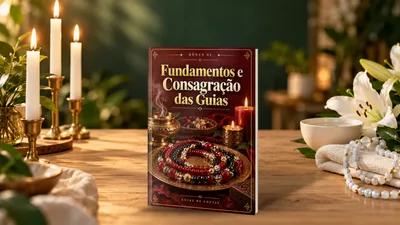
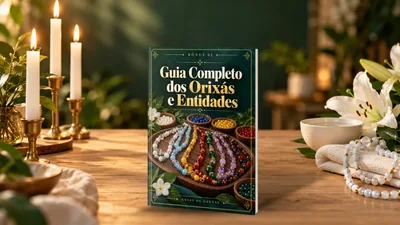
Bonus 02 vira Guia Completo dos Orixas e Entidades (Fundamentos foi para order bump)

Changed region(s): [[0.36, 0.1867, 0.66, 0.9644]]

diff --git a/index.html b/index.html
@@ -573,23 +573,23 @@
     <div class="orn"><i></i><b></b><i></i></div>
     <h2>Você também recebe 4 bônus para ir além da montagem!</h2>
 
-    <!-- capas: ebook do Heitor como livro 3D sobre cena gerada no ChatGPT (_geracao/bonus-fundos/: f1..f4 = fundos, compor.html = montagem; versões anteriores em assets/bonus/antigas/).  Os 4 bônus ainda precisam
-         existir na entrega (fila do entregador). -->
+    <!-- capas: ebook do Heitor como livro 3D sobre cena gerada no ChatGPT (_geracao/bonus-fundos/: f1..f4 = fundos, compor.html = montagem; versões anteriores em assets/bonus/antigas/).  (28/10: b2 trocado de Fundamentos e Consagração, que virou order bump, para Guia Completo dos Orixás e Entidades)
+         Conteúdo dos 4 bônus: entregaveis/60-guias-de-contas/bonus/. -->
     <div class="bonus-lista">
       <div class="card-bonus">
-        <div class="capa-bonus"><img src="assets/bonus/b1.webp?v=3" srcset="assets/bonus/b1-400.webp?v=3 400w, assets/bonus/b1.webp?v=3 680w" sizes="(max-width:720px) 92vw, 530px" width="680" height="383" loading="lazy" alt="Capa do Bônus 01, Guia Completo de Materiais e Componentes"></div>
+        <div class="capa-bonus"><img src="assets/bonus/b1.webp?v=4" srcset="assets/bonus/b1-400.webp?v=4 400w, assets/bonus/b1.webp?v=4 680w" sizes="(max-width:720px) 92vw, 530px" width="680" height="383" loading="lazy" alt="Capa do Bônus 01, Guia Completo de Materiais e Componentes"></div>
         <div class="txt-bonus"><span class="num-b"><svg class="ico"><use href="#i-presente"/></svg>BÔNUS 01</span><b>Guia Completo de Materiais e Componentes</b><span>Descubra quais contas, pedras, fios e acessórios utilizar, com orientações de escolha e uma lista de compras para começar.</span></div>
       </div>
       <div class="card-bonus">
-        <div class="capa-bonus"><img src="assets/bonus/b2.webp?v=3" srcset="assets/bonus/b2-400.webp?v=3 400w, assets/bonus/b2.webp?v=3 680w" sizes="(max-width:720px) 92vw, 530px" width="680" height="383" loading="lazy" alt="Capa do Bônus 02, Fundamentos e Consagração das Guias"></div>
-        <div class="txt-bonus"><span class="num-b"><svg class="ico"><use href="#i-presente"/></svg>BÔNUS 02</span><b>Fundamentos e Consagração das Guias</b><span>Entenda o significado das guias, os cuidados com seu uso e a importância da consagração conforme cada tradição religiosa.</span></div>
+        <div class="capa-bonus"><img src="assets/bonus/b2.webp?v=4" srcset="assets/bonus/b2-400.webp?v=4 400w, assets/bonus/b2.webp?v=4 680w" sizes="(max-width:720px) 92vw, 530px" width="680" height="383" loading="lazy" alt="Capa do Bônus 02, Guia Completo dos Orixás e Entidades"></div>
+        <div class="txt-bonus"><span class="num-b"><svg class="ico"><use href="#i-presente"/></svg>BÔNUS 02</span><b>Guia Completo dos Orixás e Entidades</b><span>Consulte num só lugar as cores, o dia, o elemento e a saudação de cada orixá e de cada linha, com as variações entre Umbanda e Candomblé.</span></div>
       </div>
       <div class="card-bonus">
-        <div class="capa-bonus"><img src="assets/bonus/b3.webp?v=3" srcset="assets/bonus/b3-400.webp?v=3 400w, assets/bonus/b3.webp?v=3 680w" sizes="(max-width:720px) 92vw, 530px" width="680" height="383" loading="lazy" alt="Capa do Bônus 03, Como Precificar e Vender Suas Guias"></div>
+        <div class="capa-bonus"><img src="assets/bonus/b3.webp?v=4" srcset="assets/bonus/b3-400.webp?v=4 400w, assets/bonus/b3.webp?v=4 680w" sizes="(max-width:720px) 92vw, 530px" width="680" height="383" loading="lazy" alt="Capa do Bônus 03, Como Precificar e Vender Suas Guias"></div>
         <div class="txt-bonus"><span class="num-b"><svg class="ico"><use href="#i-presente"/></svg>BÔNUS 03</span><b>Como Precificar e Vender Suas Guias</b><span>Saiba calcular os custos, definir seus preços e organizar encomendas para transformar suas confecções em uma fonte de renda.</span></div>
       </div>
       <div class="card-bonus">
-        <div class="capa-bonus"><img src="assets/bonus/b4.webp?v=3" srcset="assets/bonus/b4-400.webp?v=3 400w, assets/bonus/b4.webp?v=3 680w" sizes="(max-width:720px) 92vw, 530px" width="680" height="383" loading="lazy" alt="Capa do Bônus 04, Guia de Erros, Ajustes e Reparos"></div>
+        <div class="capa-bonus"><img src="assets/bonus/b4.webp?v=4" srcset="assets/bonus/b4-400.webp?v=4 400w, assets/bonus/b4.webp?v=4 680w" sizes="(max-width:720px) 92vw, 530px" width="680" height="383" loading="lazy" alt="Capa do Bônus 04, Guia de Erros, Ajustes e Reparos"></div>
         <div class="txt-bonus"><span class="num-b"><svg class="ico"><use href="#i-presente"/></svg>BÔNUS 04</span><b>Guia de Erros, Ajustes e Reparos</b><span>Descubra como corrigir problemas de montagem, ajustar medidas, reforçar fechamentos e conservar suas guias por mais tempo.</span></div>
       </div>
     </div>
@@ -648,7 +648,7 @@
       <div class="titulo-bonus">+ 4 bônus inclusos</div>
       <ul class="lista-bonus">
         <li><svg class="ico"><use href="#i-presente"/></svg><span><b>BÔNUS 01:</b> Guia Completo de Materiais e Componentes</span></li>
-        <li><svg class="ico"><use href="#i-presente"/></svg><span><b>BÔNUS 02:</b> Fundamentos e Consagração das Guias</span></li>
+        <li><svg class="ico"><use href="#i-presente"/></svg><span><b>BÔNUS 02:</b> Guia Completo dos Orixás e Entidades</span></li>
         <li><svg class="ico"><use href="#i-presente"/></svg><span><b>BÔNUS 03:</b> Como Precificar e Vender Suas Guias</span></li>
         <li><svg class="ico"><use href="#i-presente"/></svg><span><b>BÔNUS 04:</b> Guia de Erros, Ajustes e Reparos</span></li>
       </ul>

diff --git a/promo.html b/promo.html
@@ -153,7 +153,7 @@
     <div class="tit-bonus">Os 4 bônus continuam inclusos</div>
     <div class="bonus">
       <figure><img src="assets/promo/b1.webp" width="180" height="254" alt="" loading="lazy"><figcaption>Guia de Materiais</figcaption></figure>
-      <figure><img src="assets/promo/b2.webp" width="180" height="254" alt="" loading="lazy"><figcaption>Fundamentos e Consagração</figcaption></figure>
+      <figure><img src="assets/promo/b2.webp?v=2" width="180" height="254" alt="" loading="lazy"><figcaption>Orixás e Entidades</figcaption></figure>
       <figure><img src="assets/promo/b3.webp" width="180" height="254" alt="" loading="lazy"><figcaption>Precificar e Vender</figcaption></figure>
       <figure><img src="assets/promo/b4.webp" width="180" height="254" alt="" loading="lazy"><figcaption>Erros, Ajustes e Reparos</figcaption></figure>
     </div>
